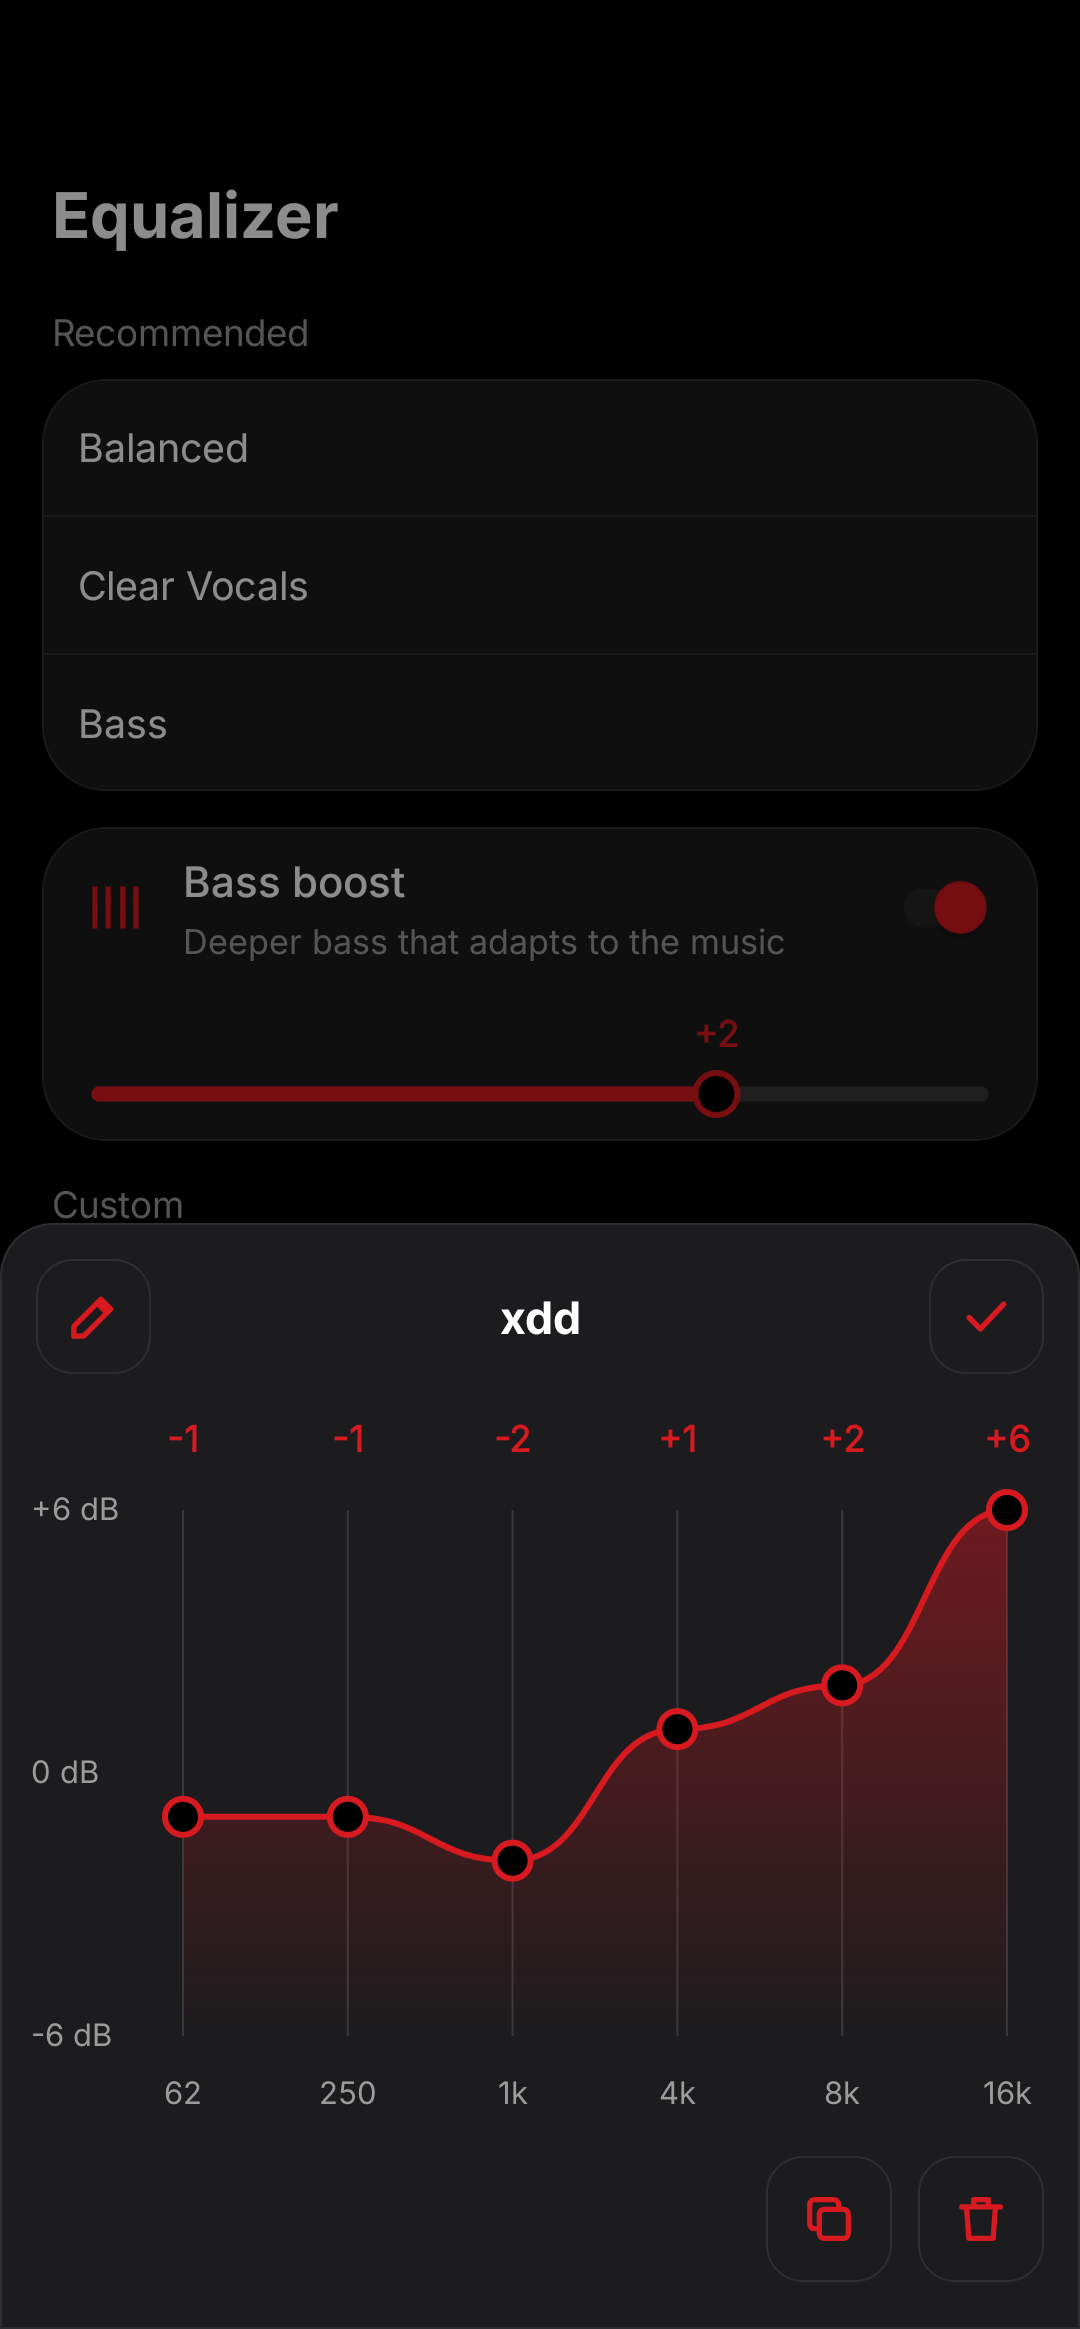
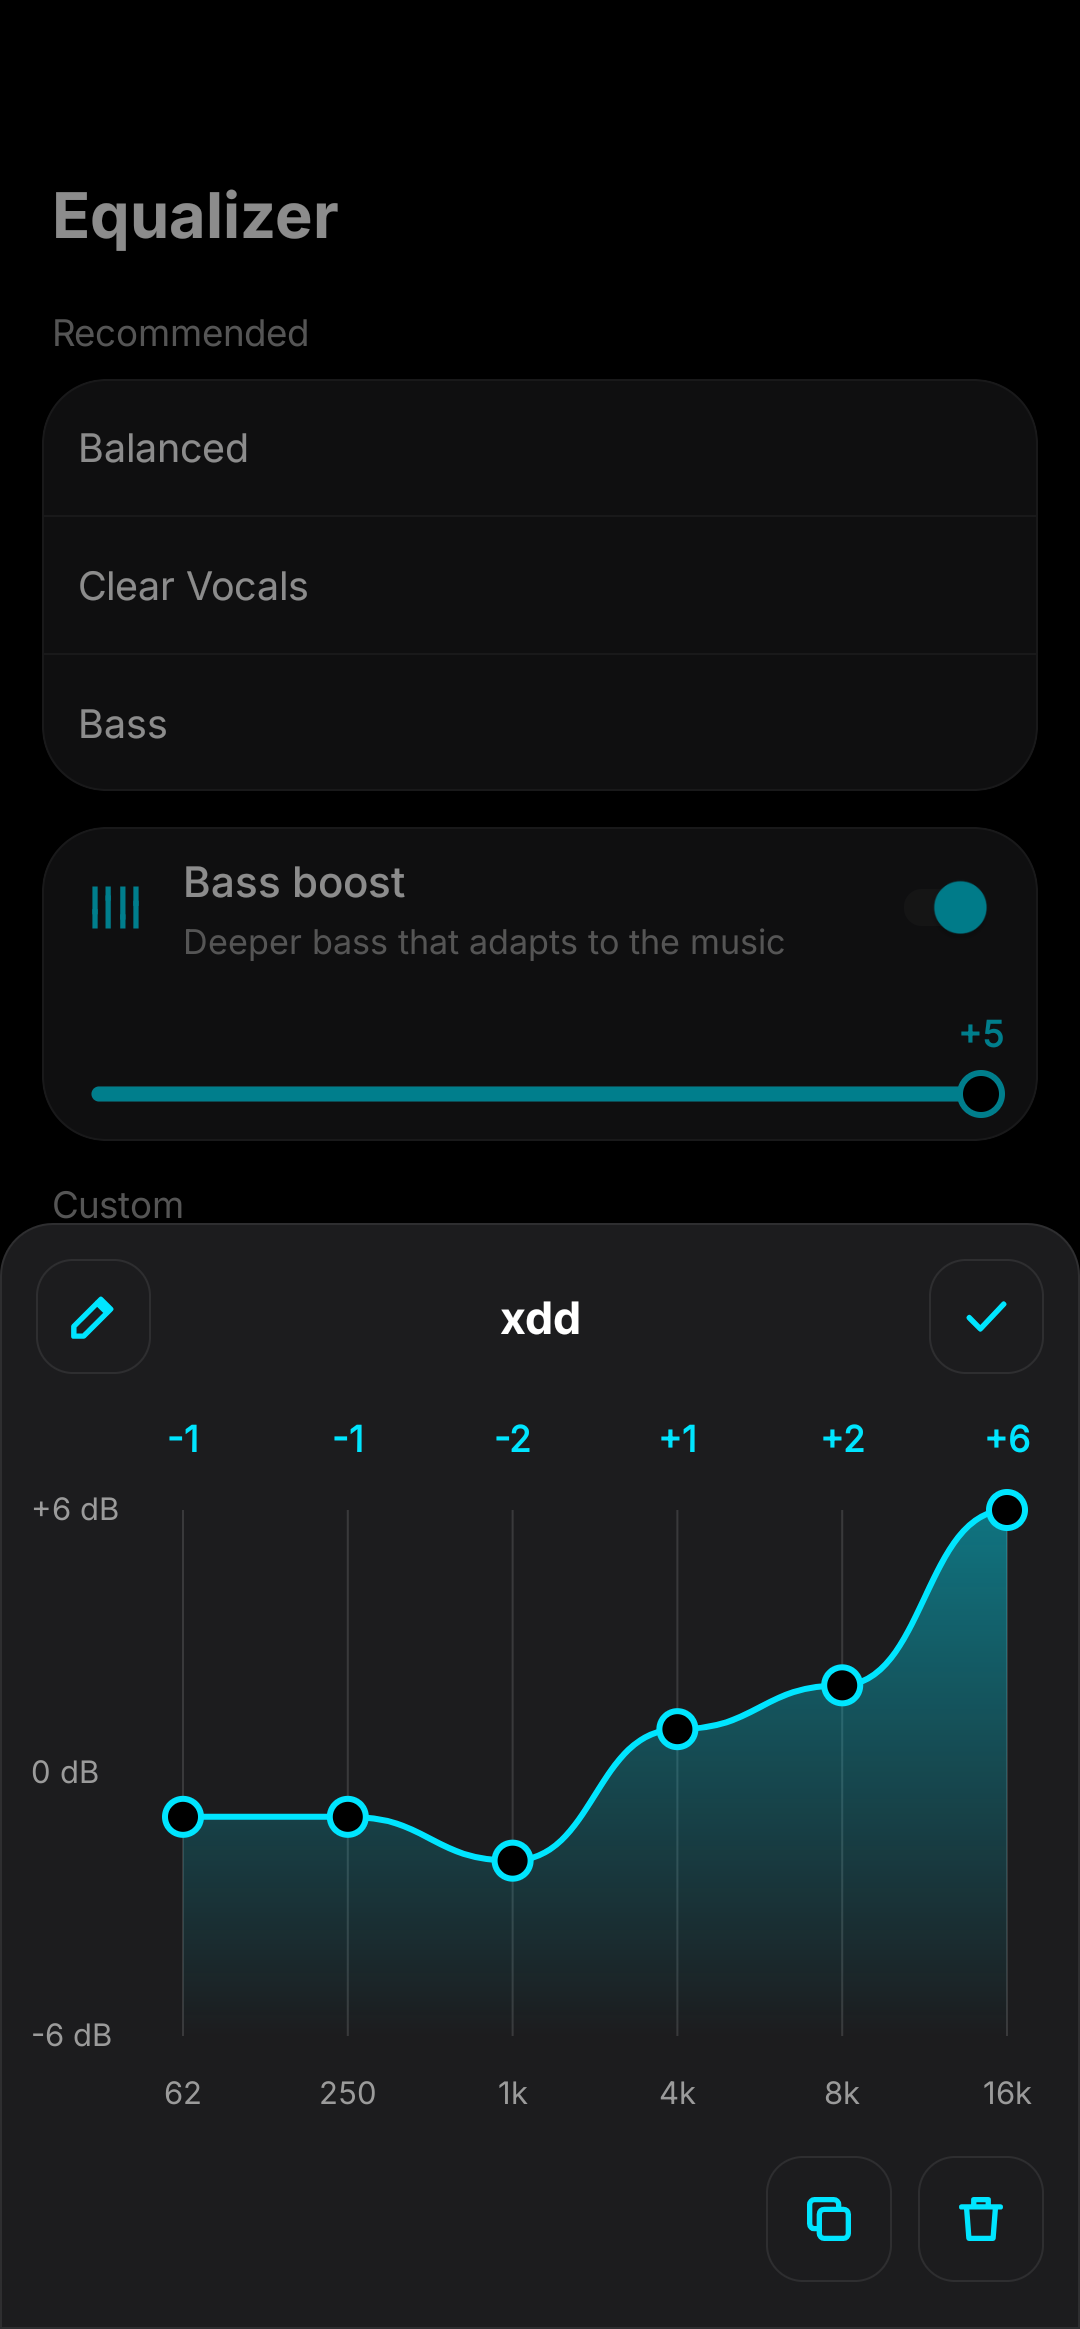
README: model detection, widget pages, retaken screenshots
Screenshots retaken with the script (now also the model list; widget files
named by size). Features list updated for model detection, the widget
pages, the 3x2 / 3x3 sizes and the languages.

diff --git a/README.md b/README.md
@@ -13,13 +13,17 @@ home-screen widget.
 
 <!-- Retaken with scripts/readme-screenshots.sh; see CLAUDE.md. -->
 
-| Main screen | Equalizer | Curve editor | Earbud settings |
+| Main screen | Model | Equalizer | Curve editor |
 | :---: | :---: | :---: | :---: |
-| <img src="docs/screenshots/main.png" width="200"> | <img src="docs/screenshots/eq.png" width="200"> | <img src="docs/screenshots/eq-edit.png" width="200"> | <img src="docs/screenshots/earbuds.png" width="200"> |
+| <img src="docs/screenshots/main.png" width="200"> | <img src="docs/screenshots/models.png" width="200"> | <img src="docs/screenshots/eq.png" width="200"> | <img src="docs/screenshots/eq-edit.png" width="200"> |
 
-| Earbud gestures | Wear detection | Find my earbuds | Dual connection |
+| Earbud settings | Earbud gestures | Wear detection | Find my earbuds |
 | :---: | :---: | :---: | :---: |
-| <img src="docs/screenshots/gestures.png" width="200"> | <img src="docs/screenshots/wear.png" width="200"> | <img src="docs/screenshots/find.png" width="200"> | <img src="docs/screenshots/dual.png" width="200"> |
+| <img src="docs/screenshots/earbuds.png" width="200"> | <img src="docs/screenshots/gestures.png" width="200"> | <img src="docs/screenshots/wear.png" width="200"> | <img src="docs/screenshots/find.png" width="200"> |
+
+| Dual connection | | | |
+| :---: | :---: | :---: | :---: |
+| <img src="docs/screenshots/dual.png" width="200"> | | | |
 
 | Settings | Theme & colors | Edit preset | Home layout |
 | :---: | :---: | :---: | :---: |
@@ -31,16 +35,21 @@ home-screen widget.
 
 ### Widgets
 
-| Battery 2x2 | Controls 2x2 |
+Every size has a battery page and a controls page; switch with the swap button or a double tap.
+
+| 2x2, battery page | 2x2, controls page |
 | :---: | :---: |
 | <img src="docs/screenshots/widget-battery.png" width="200"> | <img src="docs/screenshots/widget-controls.png" width="200"> |
 
-| Combined 3x2 | Combined 3x3 |
+| 3x2 | 3x3 |
 | :---: | :---: |
-| <img src="docs/screenshots/widget-combined.png" width="300"> | <img src="docs/screenshots/widget-large.png" width="300"> |
+| <img src="docs/screenshots/widget-3x2.png" width="300"> | <img src="docs/screenshots/widget-3x3.png" width="300"> |
 
 ## Features
 
+- **Knows your earbuds:** reads the model from the earbuds and matches it against HeyMelody's own
+  list of OnePlus, OPPO and realme models, then shows only what that model supports. You can also
+  pick the model yourself.
 - **Battery and wear status** for each bud and the case, live.
 - **Noise control:** Off, Noise cancelling (Low / Medium / High), Adaptive and Transparency. Changes
   made on the earbuds show up instantly.
@@ -49,10 +58,11 @@ home-screen widget.
 - **High-quality audio (LHDC), 3D audio and Low latency mode.**
 - **Gestures** per bud: taps, slide and hold, plus the on-call gestures.
 - **Wear detection**, **Dual connection**, **Find my earbuds** and the earbuds' prompt volume.
-- **Home-screen widgets** in three sizes (2×2, 4×2, 4×1) with battery, noise control and Low latency,
-  in your theme's colours.
+- **Home-screen widgets** in three sizes (2×2, 3×2, 3×3). Each has a battery page and a noise
+  control + Low latency page, in your theme's colours.
 - **Themes:** OLED Black, Classic Dark and White, your own accent colour, and up to 3 custom colour
   presets. Reorder or hide the home screen rows.
+- **27 languages**, switchable inside the app.
 - **Update check** from inside the app, straight from GitHub releases.
 
 ## Install
@@ -65,8 +75,8 @@ home-screen widget.
 
 > **Coming from v1.1.0?** Uninstall it first: v2.0.0 and later are signed with a new key.
 
-**Tested on:** OnePlus Buds 4 with a Nothing Phone (3a), Android 15. Other OnePlus / OPPO / realme
-earbuds use the same protocol and will likely work, but are untested.
+**Tested on:** OnePlus Buds 4 with a Nothing Phone (3a), Android 16. Other OnePlus / OPPO / realme
+earbuds use the same protocol and are detected, but are untested: reports on GitHub are welcome.
 
 ## For developers
 

diff --git a/docs/ROADMAP.md b/docs/ROADMAP.md
@@ -91,8 +91,8 @@ widgets, 3.0.0) is finished; 3.1.0 is released.
 
 - Done 2026-09-26: README is short and user-facing, CREDITS.md folded into its Credits section,
   outdated Appearance notes in ROADMAP-DONE replaced.
-- **Retake the README screenshots** once the UI and the widget are final. The current ones are
-  placeholders. Rerun `scripts/readme-screenshots.sh`.
+- Done 2026-09-27: README screenshots retaken (model list and the redesigned widgets included).
+  Rerun `scripts/readme-screenshots.sh` after any visible UI change.
 
 ## Parked
 
